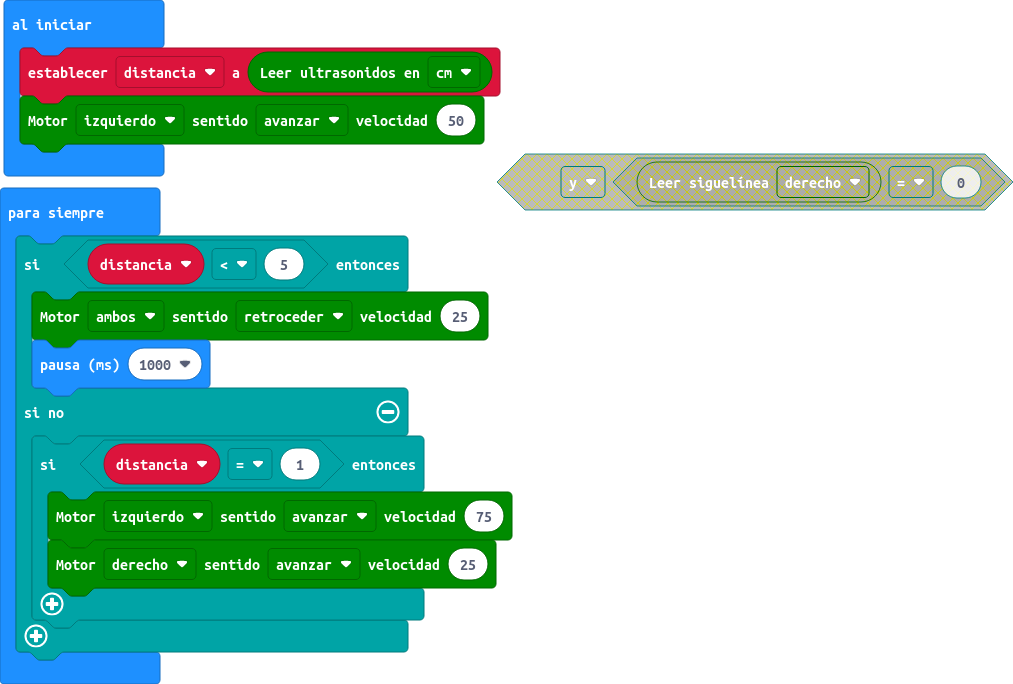
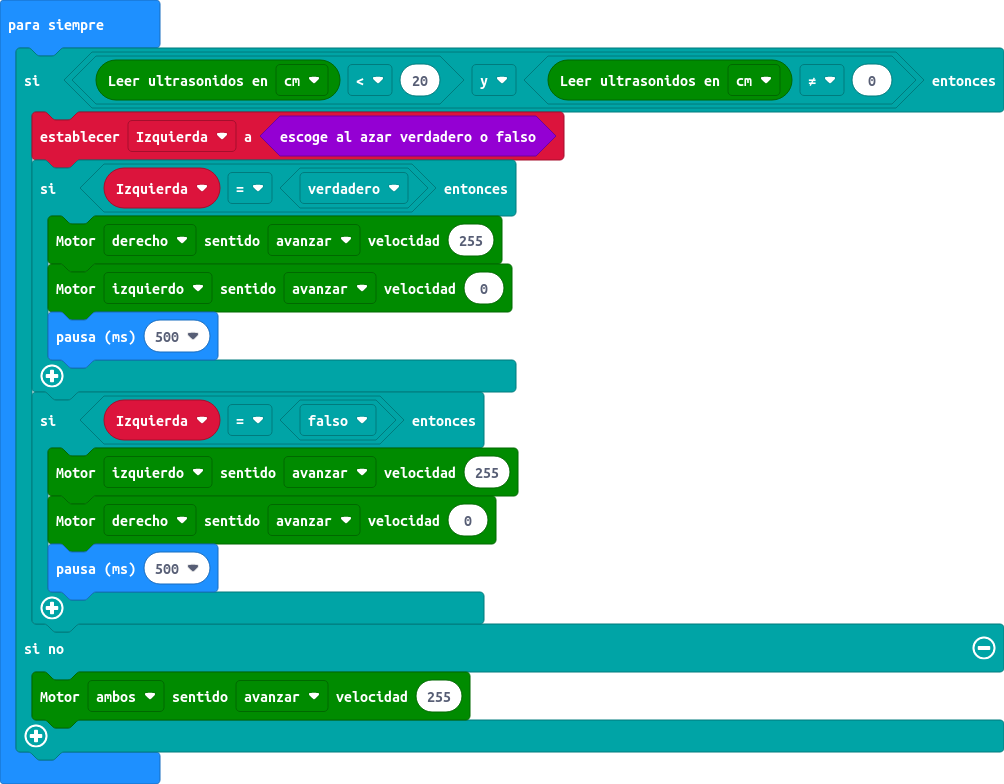
Actualizar pxt.json, main.blocks, main.ts, main.py

diff --git a/main.ts b/main.ts
@@ -1,13 +1,18 @@
-let distancia = maqueen.Ultrasonic(PingUnit.Centimeters)
-maqueen.motorRun(maqueen.Motors.M1, maqueen.Dir.CW, 50)
+let Izquierda = false
 basic.forever(function () {
-    if (distancia < 5) {
-        maqueen.motorRun(maqueen.Motors.All, maqueen.Dir.CCW, 25)
-        basic.pause(1000)
-    } else {
-        if (distancia == 1) {
-            maqueen.motorRun(maqueen.Motors.M1, maqueen.Dir.CW, 75)
-            maqueen.motorRun(maqueen.Motors.M2, maqueen.Dir.CW, 25)
+    if (maqueen.Ultrasonic(PingUnit.Centimeters) < 20 && maqueen.Ultrasonic(PingUnit.Centimeters) != 0) {
+        Izquierda = Math.randomBoolean()
+        if (Izquierda == true) {
+            maqueen.motorRun(maqueen.Motors.M2, maqueen.Dir.CW, 255)
+            maqueen.motorRun(maqueen.Motors.M1, maqueen.Dir.CW, 0)
+            basic.pause(500)
         }
+        if (Izquierda == false) {
+            maqueen.motorRun(maqueen.Motors.M1, maqueen.Dir.CW, 255)
+            maqueen.motorRun(maqueen.Motors.M2, maqueen.Dir.CW, 0)
+            basic.pause(500)
+        }
+    } else {
+        maqueen.motorRun(maqueen.Motors.All, maqueen.Dir.CW, 255)
     }
 })

diff --git a/main.py b/main.py
@@ -1,5 +1,17 @@
-def on_gesture_shake():
-    basic.show_number(randint(0, 6))
-    basic.pause(500)
-    basic.clear_screen()
-input.on_gesture(Gesture.SHAKE, on_gesture_shake)
+Izquierda = False
+
+def on_forever():
+    global Izquierda
+    if maqueen.ultrasonic(PingUnit.CENTIMETERS) < 20 and maqueen.ultrasonic(PingUnit.CENTIMETERS) != 0:
+        Izquierda = Math.random_boolean()
+        if Izquierda == True:
+            maqueen.motor_run(maqueen.Motors.M2, maqueen.Dir.CW, 255)
+            maqueen.motor_run(maqueen.Motors.M1, maqueen.Dir.CW, 0)
+            basic.pause(500)
+        if Izquierda == False:
+            maqueen.motor_run(maqueen.Motors.M1, maqueen.Dir.CW, 255)
+            maqueen.motor_run(maqueen.Motors.M2, maqueen.Dir.CW, 0)
+            basic.pause(500)
+    else:
+        maqueen.motor_run(maqueen.Motors.ALL, maqueen.Dir.CW, 255)
+basic.forever(on_forever)
